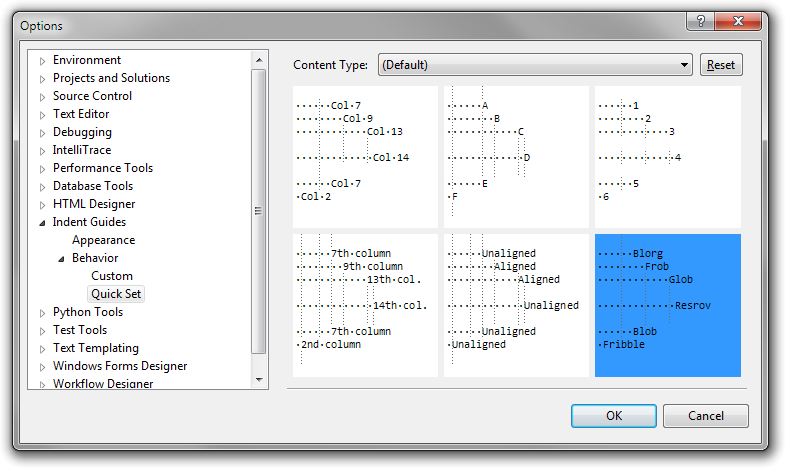
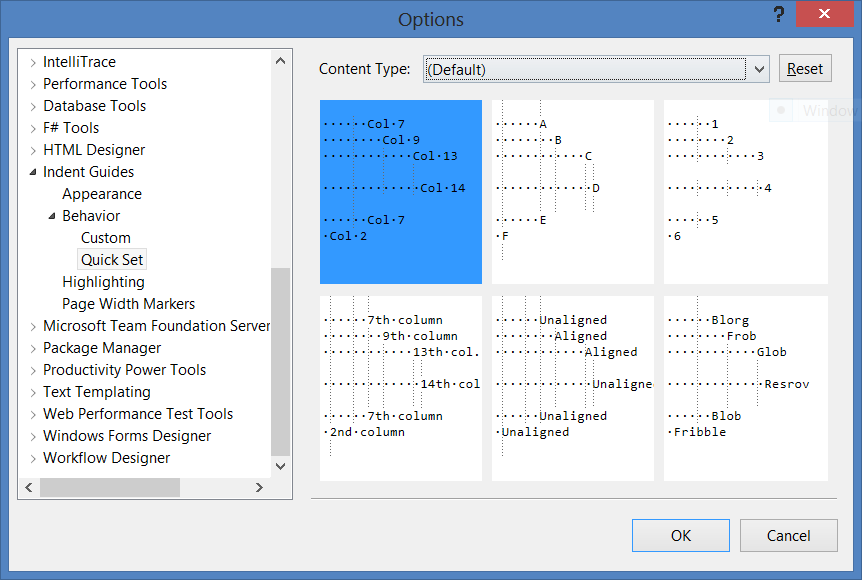
Updated screenshots. Added Description.html for Visual Studio Gallery description.

diff --git a/Resources/Description.html b/Resources/Description.html
@@ -1,0 +1,27 @@
+<table style='border-width: 0px; border-style: none;'>
+<tr>
+<td style='border-width: 0px; border-style: none;'>
+<div style='float: right;'>
+<p><img
+    id="105611"
+    src="http://i1.visualstudiogallery.msdn.s-msft.com/e792686d-542b-474a-8c55-630980e72c30/image/file/105611/1/screen.png"
+    alt="Indent Guides for Visual Studio"
+    width="400" /></p>
+
+<p><img
+    id="105612"
+    src="http://i1.visualstudiogallery.msdn.s-msft.com/e792686d-542b-474a-8c55-630980e72c30/image/file/105612/1/options.png"
+    alt="Indent Guides options page"
+    width="400" /></p>
+</div>
+
+<p><strong>v13 no longer supports VS 2010. The last version that does is <a title="Indent Guides download on CodePlex" href="http://indentguide.codeplex.com/releases/view/108472" target="_blank">v12.1</a>.&nbsp;</strong><strong>(23Jun2013)</strong></p>
+<p>Displays indent and page width guides in Visual Studio text editor windows.</p>
+<p>Guides can be displayed at the indent specified in your settings, regardless of tabs or spaces, or wherever text has been indented to. Page width markers are shown at a fixed location.</p>
+<p>There are three styles of guides: solid, dotted and dashed, available in thin and thick varieties and customizable color. The default is dotted grey, as shown in the image. Each indent level can have a different style and color.</p>
+<p>Guides can be shown and customized for any language in Visual Studio. The extension understands whitespace characters, not code.</p>
+<p>Source code is available at <a href="http://indentguide.codeplex.com/">http://indentguide.codeplex.com</a></p>
+
+</td>
+</tr>
+</table>
